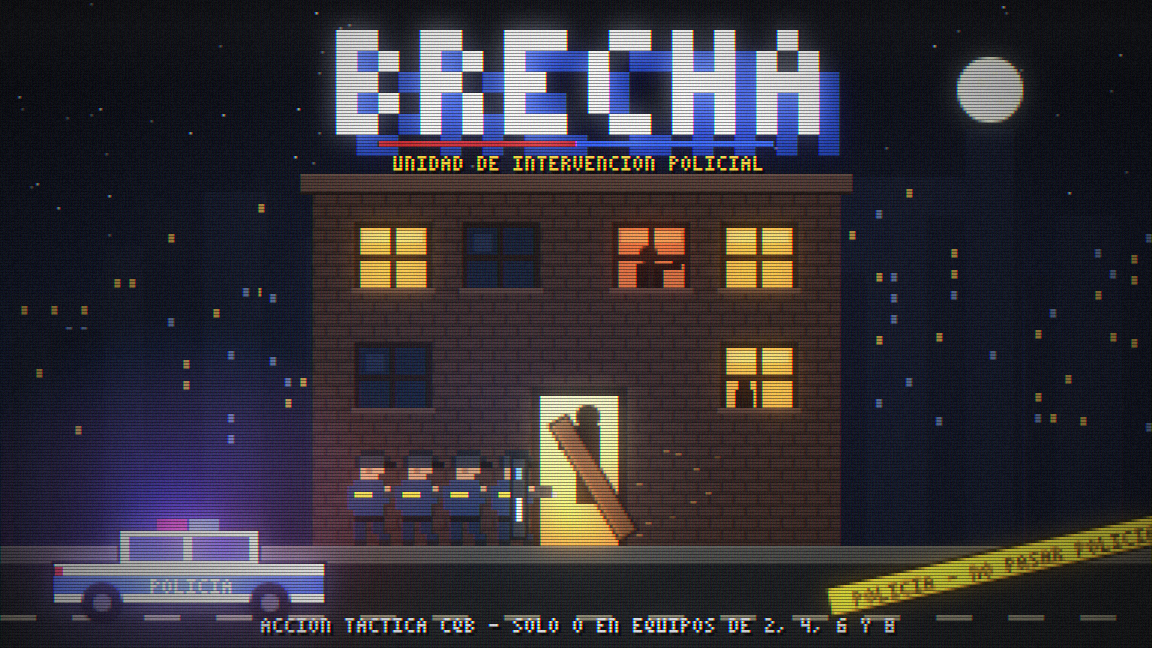
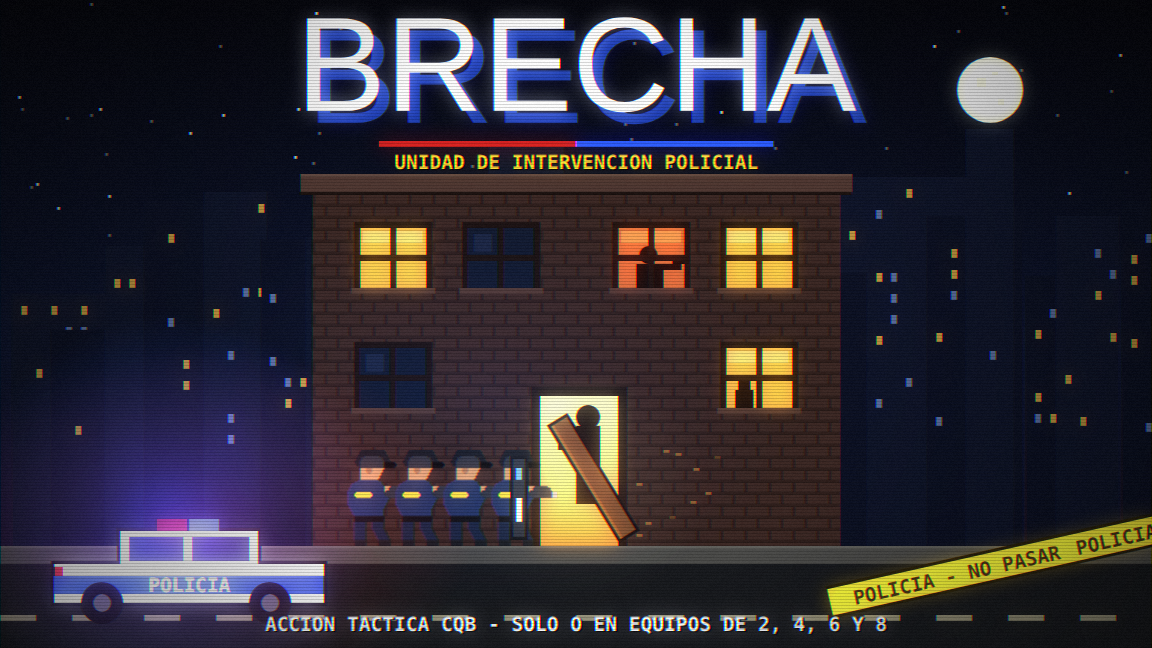
Gráficos a resolución de pantalla y movimiento más suave
- Render interno a la resolución del dispositivo (hasta 3x) y pantalla completa sin bandas
- Sprites y mapa suavizados (Scale2x) con filtrado; muebles dibujados en alta resolución
- Texto con fuentes vectoriales en lugar de la fuente de píxeles
- Posiciones y cámara sin redondeo a píxel; niebla con bordes difuminados
- Filtro CRT más suave y desactivable con K

Claude-Session: https://claude.ai/code/session_01HQPiDtaxp1mzAzFiTZoodU

diff --git a/index.html b/index.html
@@ -13,7 +13,7 @@
 <style>
 html,body{margin:0;height:100%;background:#000;overflow:hidden;touch-action:none;-webkit-user-select:none;user-select:none;-webkit-touch-callout:none}
 body{display:flex;align-items:center;justify-content:center}
-#screen{display:block;cursor:none;touch-action:none;image-rendering:pixelated;image-rendering:crisp-edges;box-shadow:0 0 80px rgba(80,120,255,.08)}
+#screen{display:block;cursor:none;touch-action:none;box-shadow:0 0 80px rgba(80,120,255,.08)}
 </style>
 </head>
 <body>
@@ -37,12 +37,14 @@ const bloomC=mk(W/2,H/2),bctx=bloomC.getContext('2d');
 const chR=mk(W,H),chG=mk(W,H),chB=mk(W,H);
 const noiseC=mk(128,128),nctx=noiseC.getContext('2d');
 function setZoom(i,quiet){ZI=(i+ZOOMS.length)%ZOOMS.length;W=ZOOMS[ZI][0];H=ZOOMS[ZI][1];
- for(const c of[game,fogC,chR,chG,chB]){c.width=W;c.height=H;}bloomC.width=W/2;bloomC.height=H/2;ctx.imageSmoothingEnabled=false;
+ sizeCanvases();
  try{localStorage.setItem('brecha_zoom',ZI);}catch(e){}if(typeof resize==='function')resize();
  if(!quiet&&G.state==='play')radio('VISTA: '+ZOOMS[ZI][2],'#7fe6ff');}
+let RS=2,CRT=true;try{CRT=localStorage.getItem('brecha_crt')!=='0';}catch(e){}
+function sizeCanvases(){for(const c of[game,fogC,chR,chG,chB]){c.width=Math.round(W*RS);c.height=Math.round(H*RS);}bloomC.width=Math.ceil(W*RS/4);bloomC.height=Math.ceil(H*RS/4);}
 let UIX=0,UIY=0;
 function ui(fn){const sw=W,sh=H;UIX=(sw-384)>>1;UIY=(sh-216)>>1;ctx.save();ctx.translate(UIX,UIY);W=384;H=216;try{fn();}finally{W=sw;H=sh;ctx.restore();UIX=0;UIY=0;}}
-function fullRect(){ctx.fillRect(-UIX,-UIY,game.width,game.height);}
+function fullRect(){ctx.fillRect(-UIX-1,-UIY-1,game.width/RS+2,game.height/RS+2);}
 const vmx=()=>mouse.x-((W-384)>>1),vmy=()=>mouse.y-((H-216)>>1);
 let overlay=null,SC=1;
 let FILTER_OK=false;try{bctx.filter='blur(1px)';FILTER_OK=bctx.filter==='blur(1px)';bctx.filter='none';}catch(e){}
@@ -59,18 +61,24 @@ function hash(x,y){let h=(Math.imul(x|0,374761393)+Math.imul(y|0,668265263))|0;h
 const FONT={};
 "A010101111101101|B110101110101110|C011100100100011|D110101101101110|E111100110100111|F111100110100100|G011100101101011|H101101111101101|I111010010010111|J001001001101010|K101101110101101|L100100100100111|M101111111101101|N110101101101101|O010101101101010|P110101110100100|Q010101101110011|R110101110101101|S011100010001110|T111010010010010|U101101101101111|V101101101101010|W101101111111101|X101101010101101|Y101101010010010|Z111001010100111|0111101101101111|1010110010010111|2110001010100111|3110001010001110|4101101111001001|5111100110001110|6011100111101111|7111001010010010|8111101111101111|9111101111001110|.000000000000010|,000000000010100|:000010000010000|!010010010000010|?110001010000010|-000000111000000|/001001010100100|%101001010100101|'010010000000000|(010100100100010|)010001001001010|+000010111010000|>100010001010100|<001010100010001|_000000000000111|[110100100100110|]011001001001011|=000111000111000|Ñ111000110101101|¡010000010010010|¿010000010100011|*000101010101000"
  .split('|').forEach(s=>FONT[s[0]]=s.slice(1));
-function norm(s){return String(s).toUpperCase().replace(/Ñ/g,'\u0001').normalize('NFD').replace(/[̀-ͯ]/g,'').replace(/\u0001/g,'Ñ');}
-function drawStr(s,x,y,col,sc){ctx.fillStyle=col;for(let i=0;i<s.length;i++){let g=FONT[s[i]];if(s[i]==='Ñ'){g=FONT.N;ctx.fillRect(x+i*4*sc,y-2*sc,3*sc,sc);}if(!g)continue;for(let k=0;k<15;k++)if(g.charCodeAt(k)===49)ctx.fillRect(x+i*4*sc+(k%3)*sc,y+((k/3)|0)*sc,sc,sc);}}
-function text(s,x,y,col='#fff',sc=1,al='left',sh='#000'){s=norm(s);const w=s.length*4*sc-sc;if(al==='center')x-=w/2;else if(al==='right')x-=w;x=Math.round(x);y=Math.round(y);if(sh)drawStr(s,x+sc,y+sc,sh,sc);drawStr(s,x,y,col,sc);}
+function norm(s){return String(s).toUpperCase();}
+const FUI="'DejaVu Sans Mono','Menlo','Consolas','Liberation Mono','Courier New',monospace",FBIG="Impact,'Haettenschweiler','Arial Narrow Bold','Arial Black',sans-serif";
+function text(s,x,y,col='#fff',sc=1,al='left',sh='#000'){s=norm(s);const big=sc>=3,fs=big?sc*6.4:sc*6.5;ctx.font=(big?'':'bold ')+fs.toFixed(2)+'px '+(big?FBIG:FUI);ctx.textBaseline='top';ctx.textAlign=al;
+ const yy=y-(big?sc*1.1:sc*0.75);if(sh){ctx.fillStyle=sh;ctx.fillText(s,x+sc*0.55,yy+sc*0.55);}ctx.fillStyle=col;ctx.fillText(s,x,yy);ctx.textAlign='left';}
 const tw=(s,sc=1)=>norm(s).length*4*sc-sc;
 const STAR=["..#..","#####",".###.",".#.#.","#...#"];
 function star(x,y,on){for(let j=0;j<5;j++)for(let i=0;i<5;i++)if(STAR[j][i]==='#'){ctx.fillStyle=on?'#ffd23a':'#2a3450';ctx.fillRect(x+i,y+j,1,1);}}
 
 // ===================== SPRITES =====================
 const PAL0={d:'#0b0d12',s:'#d29a74',k:'#1a1a1e',K:'#5a5a64',W:'#c0c0cc',n:'#5a3a20',N:'#8a5a30',y:'#ffd23a',c:'#d8dce8',w:'#ffffff',r:'#c02020',b:'#3a6ad0',v:'#7fb8d8'};
-function sprite(rows,pal){const h=rows.length,w=Math.max(...rows.map(r=>r.length));const c=mk(w,h),x=c.getContext('2d');
+function scale2x(src){const w=src.width,h=src.height,sd=src.getContext('2d').getImageData(0,0,w,h),d=new ImageData(w*2,h*2),a=new Uint32Array(sd.data.buffer),o=new Uint32Array(d.data.buffer),W2=w*2;
+ for(let y=0;y<h;y++)for(let x=0;x<w;x++){const i0=y*w+x,P=a[i0],A=y>0?a[i0-w]:P,B=x<w-1?a[i0+1]:P,C=x>0?a[i0-1]:P,D=y<h-1?a[i0+w]:P;let e0=P,e1=P,e2=P,e3=P;
+  if(C===A&&C!==D&&A!==B)e0=A;if(A===B&&A!==C&&B!==D)e1=B;if(D===C&&D!==B&&C!==A)e2=C;if(B===D&&B!==A&&D!==C)e3=D;const i=y*2*W2+x*2;o[i]=e0;o[i+1]=e1;o[i+W2]=e2;o[i+W2+1]=e3;}
+ const c=mk(w*2,h*2);c.getContext('2d').putImageData(d,0,0);return c;}
+function sprite(rows,pal){const h=rows.length,w=Math.max(...rows.map(r=>r.length));const c0=mk(w,h),x=c0.getContext('2d');
  rows.forEach((r,j)=>{for(let i=0;i<r.length;i++){if(r[i]==='.')continue;const col=(pal&&pal[r[i]])||PAL0[r[i]];if(col){x.fillStyle=col;x.fillRect(i,j,1,1);}}});
- const o=mk(w,h),ox=o.getContext('2d');ox.drawImage(c,0,0);ox.globalCompositeOperation='source-in';ox.fillStyle='#fff';ox.fillRect(0,0,w,h);c.white=o;return c;}
+ const c=scale2x(scale2x(c0));c.lw=w;c.lh=h;const o=mk(c.width,c.height),ox=o.getContext('2d');ox.drawImage(c,0,0);ox.globalCompositeOperation='source-in';ox.fillStyle='#fff';ox.fillRect(0,0,o.width,o.height);o.lw=w;o.lh=h;c.white=o;return c;}
+function spr(img,x,y){ctx.drawImage(img,x,y,img.lw||img.width,img.lh||img.height);}
 const BASE=[
 "....dddd........",
 "...dgGGgd.......",
@@ -287,8 +295,8 @@ function drawWallTile(x,X,Y,tx,ty){const c=TH.wall,below=tget(tx,ty+1),front=bel
  if(front){F(x,c[2],X,Y+11,16,5);F(x,c[3],X,Y+15,16,1);F(x,c[3],X,Y+11,16,1);}}
 function drawStairs(x,X,Y,up){F(x,'#2a2c30',X,Y,16,16);for(let i=0;i<5;i++){const c=up?40+i*14:110-i*14;F(x,`rgb(${c},${c+2},${c+8})`,X+1,Y+1+i*3,14,3);F(x,'#111',X+1,Y+3+i*3,14,1);}
  F(x,'#ffd23a',X+7,Y+4,2,8);if(up){F(x,'#ffd23a',X+5,Y+6,6,1);F(x,'#ffd23a',X+6,Y+5,4,1);}else{F(x,'#ffd23a',X+5,Y+10,6,1);F(x,'#ffd23a',X+6,Y+11,4,1);}}
-function buildBase(L){world=L;const w=L.w,h=L.h;L.base=mk(w*TS,h*TS);const x=L.base.getContext('2d');
- L.decal=mk(w*TS,h*TS);L.dctx=L.decal.getContext('2d');
+function buildBase(L){world=L;const w=L.w,h=L.h;L.base0=mk(w*TS,h*TS);const x=L.base0.getContext('2d');
+ L.decal=mk(w*TS*2,h*TS*2);L.dctx=L.decal.getContext('2d');L.dctx.setTransform(2,0,0,2,0,0);
  for(let ty=0;ty<h;ty++)for(let tx=0;tx<w;tx++){const t=tget(tx,ty),X=tx*TS,Y=ty*TS;
   if(t!==T.WALL&&t!==T.WIN)x.drawImage(floorAt(tx,ty),X,Y);
   if(t===T.VOID){x.fillStyle='rgba(2,4,10,0.78)';x.fillRect(X,Y,16,16);}}
@@ -300,7 +308,8 @@ function buildBase(L){world=L;const w=L.w,h=L.h;L.base=mk(w*TS,h*TS);const x=L.b
   else if(t===T.WIN)drawWin(x,tx,ty);
   else if(t===T.STAIR)drawStairs(x,X,Y,!L.upper);
   else if(t!==T.FURN&&t!==T.OUT&&t!==T.VOID&&tget(tx,ty-1)===T.WALL){x.fillStyle='rgba(0,0,0,0.28)';x.fillRect(X,Y,16,3);x.fillStyle='rgba(0,0,0,0.14)';x.fillRect(X,Y+3,16,2);}}
- for(const[k,f]of L.furn)if(!f.ref)drawFurn(x,f);}
+ L.base=scale2x(L.base0);const xb=L.base.getContext('2d');xb.setTransform(2,0,0,2,0,0);for(const[k,f]of L.furn)if(!f.ref)drawFurn(xb,f);}
+function rebaseTile(L,tx,ty){const x0=Math.max(0,tx-1),y0=Math.max(0,ty-1),x1=Math.min(L.w-1,tx+1),y1=Math.min(L.h-1,ty+1),sw=(x1-x0+1)*TS,sh=(y1-y0+1)*TS,t=mk(sw,sh);t.getContext('2d').drawImage(L.base0,x0*TS,y0*TS,sw,sh,0,0,sw,sh);const u=scale2x(t),b=L.base.getContext('2d');b.save();b.setTransform(1,0,0,1,0,0);b.drawImage(u,(tx-x0)*TS*2,(ty-y0)*TS*2,TS*2,TS*2,tx*TS*2,ty*TS*2,TS*2,TS*2);b.restore();}
 function drawWin(x,tx,ty){const X=tx*TS,Y=ty*TS,hz=tget(tx-1,ty)===T.WALL||tget(tx+1,ty)===T.WALL,br=world.winBroken.has(ty*world.w+tx),c=TH.wall;
  x.drawImage(floorAt(tx,ty+(hz?1:0)),X,Y);
  if(hz){F(x,c[2],X,Y+5,16,6);F(x,br?'#1a2228':'#7fb8d8',X,Y+6,16,4);if(!br){F(x,'#c8eaff',X+2,Y+7,5,1);}else for(let i=0;i<4;i++)F(x,'#9ad0ea',X+(i*5)%15,Y+6+(i%3),1,1);F(x,c[3],X,Y+5,16,1);}
@@ -937,7 +946,7 @@ function updateBullets(dt){
   for(let i=0;i<st&&!b.dead;i++){b.x+=sx;b.y+=sy;const tx=b.x/TS|0,ty=b.y/TS|0,t=tget(tx,ty);
    if(t===T.WALL||t===T.DOOR){b.dead=true;const hx=b.x-sx,hy=b.y-sy;for(let k=0;k<3;k++){const a=rand(0,6.283),s=rand(30,90);parts.push({x:hx,y:hy,vx:Math.cos(a)*s,vy:Math.sin(a)*s,life:rand(0.08,0.2),max:0.2,c:t===T.DOOR?'#a8744a':'#ffe0a0',sz:1,drag:4,glow:t!==T.DOOR});}
     world.dctx.fillStyle='rgba(0,0,0,0.6)';world.dctx.fillRect(Math.round(hx),Math.round(hy),1,1);break;}
-   if(t===T.WIN){const k=ty*world.w+tx;if(!world.winBroken.has(k)){world.winBroken.add(k);drawWin(world.base.getContext('2d'),tx,ty);SFX.glass();for(let q=0;q<8;q++){const a=rand(0,6.283),s=rand(20,80);parts.push({x:b.x,y:b.y,vx:Math.cos(a)*s,vy:Math.sin(a)*s,life:rand(0.2,0.5),max:0.5,c:'#bfe8ff',sz:1,drag:5,col:true,stamp:'#7fb8d8'});}}}
+   if(t===T.WIN){const k=ty*world.w+tx;if(!world.winBroken.has(k)){world.winBroken.add(k);drawWin(world.base0.getContext('2d'),tx,ty);rebaseTile(world,tx,ty);SFX.glass();for(let q=0;q<8;q++){const a=rand(0,6.283),s=rand(20,80);parts.push({x:b.x,y:b.y,vx:Math.cos(a)*s,vy:Math.sin(a)*s,life:rand(0.2,0.5),max:0.5,c:'#bfe8ff',sz:1,drag:5,col:true,stamp:'#7fb8d8'});}}}
    const lists=b.from==='a'?[sus,civs]:[agents,civs];
    for(const L of lists){for(const e of L){if(e.dead||e.gone||e===b.src||(b.hit&&b.hit.includes(e)))continue;
      if(b.x>e.x-1&&b.x<e.x+e.w+1&&b.y>e.y-1&&b.y<e.y+e.h+1){hitChar(e,b);if(b.pierce>0){b.pierce--;(b.hit=b.hit||[]).push(e);}else b.dead=true;break;}}if(b.dead)break;}}
@@ -1018,29 +1027,31 @@ function computeVision(){VIS.length=0;
  for(const c of G.cams||[])if(c.f===P.f)VIS.push(eyePoly(c.x,c.y,200,210));
  for(const e of sus.concat(civs)){e.vis=false;if(e.gone)continue;const[ex,ey]=ctr(e);for(const v of VIS){if(Math.hypot(ex-v.ox,ey-v.oy)<v.R&&losO(v.ox,v.oy,ex,ey)){e.vis=true;break;}}}
  if(LV.length>1&&G.t>visT){visT=G.t+0.3;const cur=P.f;for(let f=0;f<LV.length;f++){if(f===cur)continue;const L=LV[f],keep=world;world=L;for(const a of ALLA)if(a.f===f&&!a.dead){const[ox,oy]=ctr(a);for(let i=0;i<90;i++){const an=i/90*6.28318;castRay(ox,oy,Math.cos(an),Math.sin(an),220);}}world=keep;}}}
+const SEENC=mk(1,1),SEENX=SEENC.getContext('2d');
 function drawFog(cx,cy){const w=world.w;
- fctx.globalCompositeOperation='source-over';fctx.globalAlpha=1;fctx.fillStyle='#000';fctx.fillRect(0,0,W,H);
- fctx.globalCompositeOperation='destination-out';fctx.globalAlpha=0.45;
- const tx0=Math.max(0,Math.floor(cx/TS)),ty0=Math.max(0,Math.floor(cy/TS)),tx1=Math.min(w-1,Math.floor((cx+W)/TS)),ty1=Math.min(world.h-1,Math.floor((cy+H)/TS));
- for(let ty=ty0;ty<=ty1;ty++){let run=-1;for(let tx=tx0;tx<=tx1+1;tx++){const s=tx<=tx1&&world.seen[ty*w+tx];if(s&&run<0)run=tx;if(!s&&run>=0){fctx.fillRect(run*TS-cx,ty*TS-cy,(tx-run)*TS,TS);run=-1;}}}
+ fctx.setTransform(RS,0,0,RS,0,0);fctx.globalCompositeOperation='source-over';fctx.globalAlpha=1;fctx.fillStyle='#000';fctx.fillRect(0,0,W,H);
+ const tx0=Math.max(0,Math.floor(cx/TS)-1),ty0=Math.max(0,Math.floor(cy/TS)-1),tx1=Math.min(w-1,Math.floor((cx+W)/TS)+1),ty1=Math.min(world.h-1,Math.floor((cy+H)/TS)+1),nw=tx1-tx0+1,nh=ty1-ty0+1;
+ if(SEENC.width!==nw||SEENC.height!==nh){SEENC.width=nw;SEENC.height=nh;}
+ const id=SEENX.createImageData(nw,nh),d=id.data;for(let ty=ty0;ty<=ty1;ty++)for(let tx=tx0;tx<=tx1;tx++)if(world.seen[ty*w+tx])d[((ty-ty0)*nw+tx-tx0)*4+3]=255;SEENX.putImageData(id,0,0);
+ fctx.globalCompositeOperation='destination-out';fctx.globalAlpha=0.45;fctx.imageSmoothingEnabled=true;fctx.drawImage(SEENC,tx0*TS-cx-TS/2,ty0*TS-cy-TS/2,nw*TS+TS,nh*TS+TS);
  fctx.globalAlpha=1;
  for(const v of VIS){if(v.ox+v.R<cx||v.ox-v.R>cx+W||v.oy+v.R<cy||v.oy-v.R>cy+H)continue;const p=v.pts;fctx.beginPath();fctx.moveTo(p[0]-cx,p[1]-cy);for(let i=2;i<p.length;i+=2)fctx.lineTo(p[i]-cx,p[i+1]-cy);fctx.closePath();fctx.fill();}
- fctx.globalCompositeOperation='source-over';ctx.drawImage(fogC,0,0);}
+ fctx.globalCompositeOperation='source-over';ctx.drawImage(fogC,0,0,W,H);}
 
 // ===================== DIBUJO DEL MUNDO =====================
-function darkOf(img){if(!img.dark){const c=mk(img.width,img.height),x=c.getContext('2d');x.drawImage(img,0,0);x.globalCompositeOperation='source-atop';x.fillStyle='rgba(30,8,8,0.55)';x.fillRect(0,0,c.width,c.height);img.dark=c;}return img.dark;}
+function darkOf(img){if(!img.dark){const c=mk(img.width,img.height),x=c.getContext('2d');c.lw=img.lw;c.lh=img.lh;x.drawImage(img,0,0);x.globalCompositeOperation='source-atop';x.fillStyle='rgba(30,8,8,0.55)';x.fillRect(0,0,c.width,c.height);img.dark=c;}return img.dark;}
 function sprFor(e){
  if(e.kind==='agent'){const kd=e===P?curW().kind:WPN[e.w].kind;return charSpr(e===P?'P':e.g==='B'?'AB':'A',e===P?PAL_PLY:e.g==='B'?PAL_POLB:PAL_POL,kd);}
  if(e.kind==='sus'){const pal=e.boss?PAL_BOSS:PAL_SUS[e.pi],pk=e.boss?'B':'S'+e.pi,kd=e.st==='cuffed'?'cuffed':e.st==='surr'?'up':e.armed?STYPE[e.type].kind:e.dead&&e.wasArmed?STYPE[e.type].kind:'unarmed';return charSpr(pk,pal,kd);}
  return charSpr('C'+e.pi,PAL_CIV[e.pi],(e.st==='comply'||e.st==='cower')?'up':'unarmed');}
 function drawChar(e){const[x,y]=ctr(e),s=sprFor(e);
- ctx.fillStyle='rgba(0,0,0,0.35)';ctx.fillRect(Math.round(e.x),Math.round(e.y+8),10,3);
- if(e.kind==='agent'&&e!==P){ctx.fillStyle=e.g==='B'?'rgba(90,220,230,0.45)':'rgba(90,160,255,0.45)';ctx.fillRect(Math.round(x-6),Math.round(y+6),12,1);}
- ctx.save();ctx.translate(Math.round(x),Math.round(y));ctx.rotate(e.ang);const b=Math.sin(e.anim)*0.05;ctx.scale(1+b,1-b);ctx.drawImage(e.flash>0?s.white:s,-6,-6);ctx.restore();
- if(e.stun>0)for(let i=0;i<3;i++){const a=G.t*5+i*2.1;ctx.fillStyle=i%2?'#ffd23a':'#fff';ctx.fillRect(Math.round(x+Math.cos(a)*6),Math.round(y-9+Math.sin(a)*2),1,1);}
- if(e.kind==='sus'&&e.st==='surr'&&e.fakeT<1e8&&e.surrT>e.fakeT-1.5&&(G.t*8|0)%2){ctx.fillStyle='#ff3a3a';ctx.fillRect(Math.round(x),Math.round(y-12),1,3);}
- if(e.boss&&!e.dead&&e.st!=='cuffed'){ctx.fillStyle='#ffd23a';ctx.fillRect(Math.round(x-2),Math.round(y-11),5,1);ctx.fillRect(Math.round(x-2),Math.round(y-12),1,1);ctx.fillRect(Math.round(x),Math.round(y-12),1,1);ctx.fillRect(Math.round(x+2),Math.round(y-12),1,1);}}
-function drawCorpse(e){const[x,y]=ctr(e),s=darkOf(sprFor(e));ctx.save();ctx.translate(Math.round(x),Math.round(y));ctx.rotate(e.ang+1.3);ctx.scale(1.05,0.85);ctx.drawImage(s,-6,-6);ctx.restore();}
+ ctx.fillStyle='rgba(0,0,0,0.35)';ctx.fillRect((e.x),(e.y+8),10,3);
+ if(e.kind==='agent'&&e!==P){ctx.fillStyle=e.g==='B'?'rgba(90,220,230,0.45)':'rgba(90,160,255,0.45)';ctx.fillRect((x-6),(y+6),12,1);}
+ ctx.save();ctx.translate((x),(y));ctx.rotate(e.ang);const b=Math.sin(e.anim)*0.05;ctx.scale(1+b,1-b);spr(e.flash>0?s.white:s,-6,-6);ctx.restore();
+ if(e.stun>0)for(let i=0;i<3;i++){const a=G.t*5+i*2.1;ctx.fillStyle=i%2?'#ffd23a':'#fff';ctx.fillRect((x+Math.cos(a)*6),(y-9+Math.sin(a)*2),1,1);}
+ if(e.kind==='sus'&&e.st==='surr'&&e.fakeT<1e8&&e.surrT>e.fakeT-1.5&&(G.t*8|0)%2){ctx.fillStyle='#ff3a3a';ctx.fillRect((x),(y-12),1,3);}
+ if(e.boss&&!e.dead&&e.st!=='cuffed'){ctx.fillStyle='#ffd23a';ctx.fillRect((x-2),(y-11),5,1);ctx.fillRect((x-2),(y-12),1,1);ctx.fillRect((x),(y-12),1,1);ctx.fillRect((x+2),(y-12),1,1);}}
+function drawCorpse(e){const[x,y]=ctr(e),s=darkOf(sprFor(e));ctx.save();ctx.translate((x),(y));ctx.rotate(e.ang+1.3);ctx.scale(1.05,0.85);spr(s,-6,-6);ctx.restore();}
 const seenAt=(x,y)=>{const tx=x/TS|0,ty=y/TS|0;return tx>=0&&ty>=0&&tx<world.w&&ty<world.h&&world.seen[ty*world.w+tx];};
 function drawDoors(cx,cy){const w=world.w,tx0=Math.max(0,(cx/TS|0)-1),ty0=Math.max(0,(cy/TS|0)-1),tx1=Math.min(w-1,((cx+W)/TS|0)+1),ty1=Math.min(world.h-1,((cy+H)/TS|0)+1);
  for(let ty=ty0;ty<=ty1;ty++)for(let tx=tx0;tx<=tx1;tx++){const k=ty*w+tx,t=world.t[k];if(t!==T.DOOR&&t!==T.OPEN&&t!==T.BROKEN)continue;const D=world.door.get(k);if(!D)continue;const X=tx*TS,Y=ty*TS;
@@ -1054,27 +1065,27 @@ function drawDoors(cx,cy){const w=world.w,tx0=Math.max(0,(cx/TS|0)-1),ty0=Math.m
 function drawWorld(){
  computeVision();
  const sx=(Math.random()-0.5)*G.shake*2,sy=(Math.random()-0.5)*G.shake*2;G.kx=(G.kx||0)*0.8;G.ky=(G.ky||0)*0.8;
- const cx=Math.round(G.camx+sx+G.kx),cy=Math.round(G.camy+sy+G.ky);
+ const cx=G.camx+sx+G.kx,cy=G.camy+sy+G.ky;
  ctx.fillStyle='#000';ctx.fillRect(0,0,W,H);
  ctx.save();ctx.translate(-cx,-cy);
- const bx0=Math.max(0,cx),by0=Math.max(0,cy),bx1=Math.min(world.base.width,cx+W),by1=Math.min(world.base.height,cy+H);
- if(bx1>bx0&&by1>by0){ctx.drawImage(world.base,bx0,by0,bx1-bx0,by1-by0,bx0,by0,bx1-bx0,by1-by0);ctx.drawImage(world.decal,bx0,by0,bx1-bx0,by1-by0,bx0,by0,bx1-bx0,by1-by0);}
+ const bx0=Math.max(0,Math.floor(cx)),by0=Math.max(0,Math.floor(cy)),bx1=Math.min(world.w*TS,Math.ceil(cx+W)),by1=Math.min(world.h*TS,Math.ceil(cy+H));
+ if(bx1>bx0&&by1>by0){ctx.drawImage(world.base,bx0*2,by0*2,(bx1-bx0)*2,(by1-by0)*2,bx0,by0,bx1-bx0,by1-by0);ctx.drawImage(world.decal,bx0*2,by0*2,(bx1-bx0)*2,(by1-by0)*2,bx0,by0,bx1-bx0,by1-by0);}
  drawDoors(cx,cy);
- for(const it of items){if(!seenAt(it.x,it.y))continue;if(it.type==='ev'){const b=Math.round(Math.sin(G.t*4)*1);ctx.drawImage(SPR_EV,Math.round(it.x-4),Math.round(it.y-3+b));}else{ctx.save();ctx.translate(Math.round(it.x),Math.round(it.y));ctx.rotate(it.a||0);ctx.drawImage(SPR_GUN,-3,-1);ctx.restore();}}
- for(const c of world.c4){ctx.drawImage(SPR_C4,Math.round(c.x-3),Math.round(c.y-2));if((G.t*6|0)%2){ctx.fillStyle='#ff2020';ctx.fillRect(Math.round(c.x),Math.round(c.y-1),1,1);}}
+ for(const it of items){if(!seenAt(it.x,it.y))continue;if(it.type==='ev'){const b=(Math.sin(G.t*4)*1);spr(SPR_EV,(it.x-4),(it.y-3+b));}else{ctx.save();ctx.translate((it.x),(it.y));ctx.rotate(it.a||0);spr(SPR_GUN,-3,-1);ctx.restore();}}
+ for(const c of world.c4){spr(SPR_C4,(c.x-3),(c.y-2));if((G.t*6|0)%2){ctx.fillStyle='#ff2020';ctx.fillRect((c.x),(c.y-1),1,1);}}
  for(const L of[civs,sus,agents])for(const e of L)if(e.dead&&seenAt(e.x+5,e.y+5))drawCorpse(e);
- if(G.orderPt&&G.orderPt[2]>0&&G.orderPt[3]===P.f){const[ox,oy]=G.orderPt;ctx.strokeStyle='#5aa0ff';ctx.lineWidth=1;const r=4+(G.t*10%4);ctx.strokeRect(Math.round(ox-r),Math.round(oy-r),r*2|0,r*2|0);}
+ if(G.orderPt&&G.orderPt[2]>0&&G.orderPt[3]===P.f){const[ox,oy]=G.orderPt;ctx.strokeStyle='#5aa0ff';ctx.lineWidth=1;const r=4+(G.t*10%4);ctx.strokeRect((ox-r),(oy-r),r*2|0,r*2|0);}
  // órdenes de puerta
  for(const O of G.orders){if(O.f!==P.f||!(O.mode==='stack'||O.mode==='breach'))continue;const[dx,dy]=doorCenter(O.k),g=O.members[0]?O.members[0].g:'A',col=g==='B'?'#5ae0e6':'#5aa0ff';
   const all=O.members.every(m=>m.g===g);ctx.strokeStyle=col;ctx.strokeRect(dx-9.5,dy-9.5,19,19);
-  for(const sk of O.spots||[]){const x=(sk%world.w+0.5)*TS,y=((sk/world.w|0)+0.5)*TS;ctx.fillStyle=col;ctx.fillRect(Math.round(x-1),Math.round(y-1),2,2);}
+  for(const sk of O.spots||[]){const x=(sk%world.w+0.5)*TS,y=((sk/world.w|0)+0.5)*TS;ctx.fillStyle=col;ctx.fillRect((x-1),(y-1),2,2);}
   text((all?(g==='B'?'B':'A'):'T')+' '+METHODS[O.method],dx,dy-17,col,1,'center');}
  for(const e of civs)if(!e.dead&&!e.gone&&e.vis)drawChar(e);
  for(const e of sus)if(!e.dead&&e.vis)drawChar(e);
  for(const e of agents)if(!e.dead)drawChar(e);
- for(const n of nades){ctx.fillStyle='rgba(0,0,0,0.4)';ctx.fillRect(Math.round(n.x-2),Math.round(n.y),4,2);ctx.save();ctx.translate(Math.round(n.x),Math.round(n.y-(n.z||0)));ctx.rotate(n.rot);ctx.drawImage(SPR_FLASH,-2,-2);ctx.restore();}
- for(const p of parts){if(p.glow)continue;ctx.fillStyle=p.c;ctx.fillRect(Math.round(p.x),Math.round(p.y),p.sz,p.sz);}
- const bar=(e,k,c)=>{const[x,y]=e.kind?ctr(e):[e.x,e.y];ctx.fillStyle='#000';ctx.fillRect(Math.round(x-8),Math.round(y-15),16,3);ctx.fillStyle=c;ctx.fillRect(Math.round(x-7),Math.round(y-14),Math.round(14*clamp(k,0,1)),1);};
+ for(const n of nades){ctx.fillStyle='rgba(0,0,0,0.4)';ctx.fillRect((n.x-2),(n.y),4,2);ctx.save();ctx.translate((n.x),(n.y-(n.z||0)));ctx.rotate(n.rot);spr(SPR_FLASH,-2,-2);ctx.restore();}
+ for(const p of parts){if(p.glow)continue;ctx.fillStyle=p.c;ctx.fillRect((p.x),(p.y),p.sz,p.sz);}
+ const bar=(e,k,c)=>{const[x,y]=e.kind?ctr(e):[e.x,e.y];ctx.fillStyle='#000';ctx.fillRect((x-8),(y-15),16,3);ctx.fillStyle=c;ctx.fillRect((x-7),(y-14),(14*clamp(k,0,1)),1);};
  if(P.act&&P.act.e)bar(P.act.e,P.act.t/P.act.dur,'#7dff3a');
  if(P.act&&P.act.type==='ram'){const[dx,dy]=doorCenter(P.act.k);bar({x:dx,y:dy},P.act.t/P.act.dur,'#ffd23a');}
  for(const a of agents)if(a!==P&&!a.dead&&a.task&&a.task.t>0)bar(a.task.e,a.task.t/(a.task.type==='cuff'?1.3:0.8),'#5aa0ff');
@@ -1082,10 +1093,10 @@ function drawWorld(){
  drawFog(cx,cy);
  // emisivos
  ctx.save();ctx.translate(-cx,-cy);
- ctx.strokeStyle='#fff3a0';ctx.lineWidth=1;ctx.beginPath();for(const b of bullets){const k=b.pel?0.012:0.02;ctx.moveTo(Math.round(b.x-b.vx*k),Math.round(b.y-b.vy*k));ctx.lineTo(Math.round(b.x),Math.round(b.y));}ctx.stroke();
- for(const p of parts){if(!p.glow)continue;ctx.globalAlpha=clamp(p.life/p.max*1.4,0,1);ctx.fillStyle=p.c;ctx.fillRect(Math.round(p.x),Math.round(p.y),p.sz,p.sz);}ctx.globalAlpha=1;
- for(const e of agents.concat(sus)){if(e.dead||e.mflash<=0)continue;const[x,y]=ctr(e),mx=x+Math.cos(e.ang)*12,my=y+Math.sin(e.ang)*12;ctx.fillStyle='#fff6c0';ctx.fillRect(Math.round(mx-1),Math.round(my-1),3,3);ctx.fillStyle='#ffc040';ctx.fillRect(Math.round(mx-3),Math.round(my),7,1);ctx.fillRect(Math.round(mx),Math.round(my-3),1,7);}
- for(const c of world.c4)if((G.t*6|0)%2){ctx.fillStyle='#ff2020';ctx.fillRect(Math.round(c.x),Math.round(c.y-1),1,1);}
+ ctx.strokeStyle='#fff3a0';ctx.lineWidth=0.7;ctx.lineCap='round';ctx.beginPath();for(const b of bullets){const k=b.pel?0.012:0.02;ctx.moveTo((b.x-b.vx*k),(b.y-b.vy*k));ctx.lineTo((b.x),(b.y));}ctx.stroke();
+ for(const p of parts){if(!p.glow)continue;ctx.globalAlpha=clamp(p.life/p.max*1.4,0,1);ctx.fillStyle=p.c;ctx.fillRect((p.x),(p.y),p.sz,p.sz);}ctx.globalAlpha=1;
+ for(const e of agents.concat(sus)){if(e.dead||e.mflash<=0)continue;const[x,y]=ctr(e),mx=x+Math.cos(e.ang)*12,my=y+Math.sin(e.ang)*12;ctx.fillStyle='#fff6c0';ctx.fillRect((mx-1),(my-1),3,3);ctx.fillStyle='#ffc040';ctx.fillRect((mx-3),(my),7,1);ctx.fillRect((mx),(my-3),1,7);}
+ for(const c of world.c4)if((G.t*6|0)%2){ctx.fillStyle='#ff2020';ctx.fillRect((c.x),(c.y-1),1,1);}
  ctx.globalCompositeOperation='lighter';
  const glow=(x,y,r,c,i)=>{ctx.globalAlpha=Math.min(1,i);ctx.drawImage(GL[c],x-r,y-r,r*2,r*2);};
  for(const e of agents.concat(sus)){if(e.dead||e.mflash<=0)continue;const[x,y]=ctr(e);glow(x+Math.cos(e.ang)*12,y+Math.sin(e.ang)*12,36,'y',e.kind==='sus'&&!e.vis?0.3:0.45);}
@@ -1094,7 +1105,7 @@ function drawWorld(){
  ctx.globalAlpha=1;ctx.globalCompositeOperation='source-over';
  ctx.restore();
  for(const p of popups){ctx.globalAlpha=clamp(p.life*2,0,1);text(p.txt,p.x-cx,p.y-cy,p.c,1,'center');}ctx.globalAlpha=1;
- if(G.cams&&G.cams.some(c=>c.f===P.f)){const c=G.cams.find(c=>c.f===P.f);const x=c.x-cx,y=c.y-cy;ctx.strokeStyle=(G.t*4|0)%2?'#7fe6ff':'#2a6a8a';ctx.strokeRect(Math.round(x-12)+0.5,Math.round(y-8)+0.5,24,16);text('CAM',x,y-14,'#7fe6ff',1,'center');}
+ if(G.cams&&G.cams.some(c=>c.f===P.f)){const c=G.cams.find(c=>c.f===P.f);const x=c.x-cx,y=c.y-cy;ctx.strokeStyle=(G.t*4|0)%2?'#7fe6ff':'#2a6a8a';ctx.strokeRect((x-12)+0.5,(y-8)+0.5,24,16);text('CAM',x,y-14,'#7fe6ff',1,'center');}
  if(G.blind>0){ctx.fillStyle=`rgba(255,255,250,${Math.min(1,G.blind)})`;ctx.fillRect(0,0,W,H);}
  if(G.hurtFlash>0){ctx.fillStyle=`rgba(255,0,0,${G.hurtFlash*0.6})`;ctx.fillRect(0,0,W,H);}
  if(!P.dead&&P.hp<35){const a=0.12+Math.sin(G.t*6)*0.08;ctx.fillStyle=`rgba(200,0,0,${a})`;ctx.fillRect(0,0,W,4);ctx.fillRect(0,H-4,W,4);ctx.fillRect(0,0,4,H);ctx.fillRect(W-4,0,4,H);}}
@@ -1106,7 +1117,7 @@ function miniDraw(m,L,s,full){m.fillStyle='rgba(0,0,0,0.7)';m.fillRect(0,0,L.w*s
   m.fillStyle=t===T.WALL?'#8a90a0':t===T.DOOR?(L.door.get(k)&&L.door.get(k).armor?'#c8c8d0':'#a8744a'):t===T.OPEN||t===T.BROKEN?'#5a4030':t===T.WIN?'#7fb8d8':t===T.FURN?'#3a3c44':t===T.STAIR?'#ffd23a':t===T.OUT?'#1a2a1a':t===T.VOID?'#05070c':'#262a34';m.fillRect(tx*s,ty*s,s,s);}}
 function drawMinimap(){if(G.noMap)return 4;const s=Math.max(1,Math.min(2,Math.floor(110/world.w))),mw=world.w*s,mh=world.h*s,x0=W-mw-4,y0=4;
  if(G.t>miniT||MINI.width!==mw||miniF!==world.f){miniT=G.t+0.25;miniF=world.f;MINI.width=mw;MINI.height=mh;miniDraw(MINI.getContext('2d'),world,s,false);}
- ctx.drawImage(MINI,x0,y0);ctx.strokeStyle='#3a4a6a';ctx.lineWidth=1;ctx.strokeRect(x0-0.5,y0-0.5,mw+1,mh+1);
+ ctx.imageSmoothingEnabled=false;ctx.drawImage(MINI,x0,y0);ctx.imageSmoothingEnabled=true;ctx.strokeStyle='#3a4a6a';ctx.lineWidth=1;ctx.strokeRect(x0-0.5,y0-0.5,mw+1,mh+1);
  const dot=(e,c,sz=2)=>{ctx.fillStyle=c;ctx.fillRect(x0+Math.round((e.x+5)/TS*s)-1,y0+Math.round((e.y+5)/TS*s)-1,sz,sz);};
  for(const it of items)if(it.type==='ev'&&seenAt(it.x,it.y))dot({x:it.x-5,y:it.y-5},'#ffd23a');
  for(const c of civs)if(!c.dead&&!c.gone&&c.vis)dot(c,'#e8e8e8');
@@ -1117,7 +1128,7 @@ function drawMinimap(){if(G.noMap)return 4;const s=Math.max(1,Math.min(2,Math.fl
 function drawHUD(){
  text('VIDA',5,5,'#9fc8ff');ctx.fillStyle='#0a1020';ctx.fillRect(22,5,66,7);
  for(let i=0;i<16;i++){const on=P.hp/P.max>i/16;ctx.fillStyle=on?(P.hp<35?((G.t*6|0)%2?'#ff3a3a':'#a01010'):'#4a8ae8'):'#16203a';ctx.fillRect(23+i*4,6,3,5);}
- text('ATU',5,15,'#c8d0c0');for(let i=0;i<P.flashN;i++)ctx.drawImage(SPR_FLASH,22+i*6,15);
+ text('ATU',5,15,'#c8d0c0');for(let i=0;i<P.flashN;i++)spr(SPR_FLASH,22+i*6,15);
  // arma
  const y0=H-22,wv=curW();ctx.fillStyle='rgba(0,8,20,0.65)';ctx.fillRect(3,y0-3,128,22);ctx.fillStyle='#1d2a4a';ctx.fillRect(3,y0-3,128,1);
  text((P.wi+1)+' '+wv.n,5,y0,wv.c);
@@ -1299,7 +1310,7 @@ function drawBrief(){gridBG();const M=G.M;
  if((G.t*2|0)%2)text(TOUCH?'TOCA DESPLEGAR':'W/S ELEGIR  A/D CAMBIAR  ENTER: DESPLEGAR  ESC: VOLVER',192,200,'#fff',1,'center');}
 const EVC={arr:'#7dff3a',kill:'#ff3a3a',unj:'#ff9a2a',civ:'#7fe6ff',civk:'#ffffff',down:'#5aa0ff',ev:'#ffd23a'};
 function drawReplay(x0,y0,bw,bh){const L=LV[G.rmapF||0];if(!L)return;const s=Math.min(bw/(L.w*TS),bh/(L.h*TS)),w=L.w*TS*s,h=L.h*TS*s,ox=x0+(bw-w)/2,oy=y0+(bh-h)/2;
- ctx.imageSmoothingEnabled=true;ctx.drawImage(L.base,ox,oy,w,h);ctx.drawImage(L.decal,ox,oy,w,h);ctx.imageSmoothingEnabled=false;ctx.fillStyle='rgba(0,0,0,0.35)';ctx.fillRect(ox,oy,w,h);
+ ctx.imageSmoothingEnabled=true;ctx.drawImage(L.base,ox,oy,w,h);ctx.drawImage(L.decal,ox,oy,w,h);ctx.fillStyle='rgba(0,0,0,0.35)';ctx.fillRect(ox,oy,w,h);
  ctx.strokeStyle='#2a3a6a';ctx.strokeRect(Math.round(ox)-0.5,Math.round(oy)-0.5,Math.round(w)+1,Math.round(h)+1);
  const shown=Math.floor(G.debT*12);G.events.filter(e=>e.f===(G.rmapF||0)).slice(0,shown).forEach(e=>{const x=Math.round(ox+e.x*s),y=Math.round(oy+e.y*s),c=EVC[e.t];ctx.fillStyle=c;
   if(e.t==='arr'||e.t==='ev'||e.t==='civ'){ctx.fillRect(x-1,y-1,3,3);}else{ctx.fillRect(x-2,y-2,1,1);ctx.fillRect(x-1,y-1,1,1);ctx.fillRect(x,y,1,1);ctx.fillRect(x+1,y+1,1,1);ctx.fillRect(x+2,y+2,1,1);ctx.fillRect(x+2,y-2,1,1);ctx.fillRect(x+1,y-1,1,1);ctx.fillRect(x-1,y+1,1,1);ctx.fillRect(x-2,y+2,1,1);}
@@ -1325,11 +1336,11 @@ function drawFail(){const a=Math.min(1,G.debT*2);ctx.fillStyle=`rgba(20,0,0,${0.
  if(G.debT>1&&(G.t*2|0)%2)text(TOUCH?'TOCA PARA CONTINUAR':G.runEnd?'ENTER: NUEVA OPERACION   ESC: MENU':'ENTER / R: REINTENTAR   ESC: MENU',192,160,'#fff',1,'center');}
 function drawPause(){ctx.fillStyle='rgba(0,0,0,0.7)';fullRect();text('PAUSA',192,20,'#7fe6ff',4,'center');
  text(TOUCH?'TOCA PARA CONTINUAR':'P / ESC: CONTINUAR   ENTER: ABANDONAR',192,50,'#fff',1,'center');
- text('M SONIDO: '+(AU.on?'SI':'NO')+'   Z ZOOM: '+ZOOMS[ZI][2]+'   N MAPA',192,60,'#c8d0c0',1,'center');
+ text('M SONIDO: '+(AU.on?'SI':'NO')+'   Z ZOOM: '+ZOOMS[ZI][2]+'   N MAPA   K FILTRO CRT: '+(CRT?'SI':'NO'),192,60,'#c8d0c0',1,'center');
  HELP.forEach((l,i)=>{text(l[0],140,74+i*8,'#7fe6ff',1,'right');text(l[1],148,74+i*8,'#a8b8d8');});}
 function rotateHint(){if(TOUCH&&innerHeight>innerWidth*1.05){ctx.fillStyle='rgba(0,0,0,0.85)';ctx.fillRect(0,0,W,H);text('GIRA EL MOVIL',W/2,H/2-10,'#ffd23a',3,'center');text('SE JUEGA EN HORIZONTAL',W/2,H/2+14,'#c8d0c0',1,'center');}}
 function render(){
- ctx.setTransform(1,0,0,1,0,0);ctx.globalCompositeOperation='source-over';ctx.globalAlpha=1;ctx.imageSmoothingEnabled=false;
+ ctx.setTransform(RS,0,0,RS,0,0);ctx.globalCompositeOperation='source-over';ctx.globalAlpha=1;ctx.imageSmoothingEnabled=true;ctx.imageSmoothingQuality='high';
  if(G.state==='title'){drawCover();if(!COVER)ui(drawTitleUI);if(G.help)ui(drawHelp);rotateHint();return;}
  if(G.state==='menu'){ui(drawMenu);rotateHint();return;}
  if(G.state==='brief'){ui(drawBrief);rotateHint();return;}
@@ -1339,34 +1350,28 @@ function render(){
 // ===================== CRT (plano) =====================
 function buildOverlay(cw,ch,s){
  overlay=mk(cw,ch);const o=overlay.getContext('2d');
- if(s>=2){const sl=mk(1,s),x=sl.getContext('2d');x.fillStyle='rgba(0,0,0,0.42)';x.fillRect(0,s-1,1,1);if(s>=4){x.fillStyle='rgba(0,0,0,0.16)';x.fillRect(0,s-2,1,1);x.fillRect(0,0,1,1);}o.fillStyle=o.createPattern(sl,'repeat');o.fillRect(0,0,cw,ch);}
- if(s>=3){const ap=mk(3,1),x=ap.getContext('2d');x.fillStyle='rgba(255,40,40,0.05)';x.fillRect(0,0,1,1);x.fillStyle='rgba(40,255,40,0.05)';x.fillRect(1,0,1,1);x.fillStyle='rgba(40,40,255,0.05)';x.fillRect(2,0,1,1);o.fillStyle=o.createPattern(ap,'repeat');o.fillRect(0,0,cw,ch);}
- const vg=o.createRadialGradient(cw/2,ch/2,ch*0.4,cw/2,ch/2,Math.hypot(cw,ch)/2);vg.addColorStop(0,'rgba(0,0,0,0)');vg.addColorStop(1,'rgba(0,0,0,0.5)');o.fillStyle=vg;o.fillRect(0,0,cw,ch);
-}
+ if(s>=2){const p=Math.max(2,Math.round(s)),sl=mk(1,p),x=sl.getContext('2d');x.fillStyle='rgba(0,0,0,0.16)';x.fillRect(0,p-1,1,1);o.fillStyle=o.createPattern(sl,'repeat');o.fillRect(0,0,cw,ch);}
+ const vg=o.createRadialGradient(cw/2,ch/2,ch*0.45,cw/2,ch/2,Math.hypot(cw,ch)/2);vg.addColorStop(0,'rgba(0,0,0,0)');vg.addColorStop(1,'rgba(0,0,0,0.42)');o.fillStyle=vg;o.fillRect(0,0,cw,ch);}
 function regenNoise(){const id=nctx.createImageData(128,128),d=id.data;for(let i=0;i<d.length;i+=4){const v=Math.random()*255|0;d[i]=d[i+1]=d[i+2]=v;d[i+3]=255;}nctx.putImageData(id,0,0);}
 function post(){
- const cw=scr.width,ch=scr.height;
- [[chR,'#f00'],[chG,'#0f0'],[chB,'#00f']].forEach(([cv,col])=>{const c=cv.getContext('2d');c.globalCompositeOperation='copy';c.drawImage(game,0,0);c.globalCompositeOperation='multiply';c.fillStyle=col;c.fillRect(0,0,W,H);});
- dctx.globalCompositeOperation='source-over';dctx.globalAlpha=1;dctx.fillStyle='#000';dctx.fillRect(0,0,cw,ch);
- dctx.imageSmoothingEnabled=false;dctx.globalCompositeOperation='lighter';
- const o=Math.max(1,Math.round(SC*0.35));
+ const cw=scr.width,ch=scr.height,gw=game.width,gh=game.height;
+ dctx.setTransform(1,0,0,1,0,0);dctx.globalCompositeOperation='source-over';dctx.globalAlpha=1;dctx.imageSmoothingEnabled=true;dctx.imageSmoothingQuality='high';
+ if(!CRT){dctx.drawImage(game,0,0,cw,ch);return;}
+ [[chR,'#f00'],[chG,'#0f0'],[chB,'#00f']].forEach(([cv,col])=>{const c=cv.getContext('2d');c.globalCompositeOperation='copy';c.drawImage(game,0,0);c.globalCompositeOperation='multiply';c.fillStyle=col;c.fillRect(0,0,gw,gh);});
+ dctx.fillStyle='#000';dctx.fillRect(0,0,cw,ch);dctx.globalCompositeOperation='lighter';
+ const o=Math.max(1,Math.round(cw/W*0.22));
  dctx.drawImage(chR,o,0,cw,ch);dctx.drawImage(chG,0,0,cw,ch);dctx.drawImage(chB,-o,0,cw,ch);
- bctx.globalCompositeOperation='copy';if(FILTER_OK)bctx.filter='brightness(0.75) contrast(2.2) blur(2px)';bctx.drawImage(game,0,0,W/2,H/2);if(FILTER_OK)bctx.filter='none';
- dctx.imageSmoothingEnabled=true;dctx.globalAlpha=FILTER_OK?0.5:0.12;dctx.drawImage(bloomC,0,0,cw,ch);
+ bctx.globalCompositeOperation='copy';if(FILTER_OK)bctx.filter='brightness(0.75) contrast(2.2) blur(2px)';bctx.drawImage(game,0,0,bloomC.width,bloomC.height);if(FILTER_OK)bctx.filter='none';
+ dctx.globalAlpha=FILTER_OK?0.4:0.1;dctx.drawImage(bloomC,0,0,cw,ch);
  dctx.globalAlpha=1;dctx.globalCompositeOperation='source-over';
  dctx.drawImage(overlay,0,0);
  if((G.frame&1)===0)regenNoise();
- dctx.globalAlpha=0.04;dctx.fillStyle=dctx.createPattern(noiseC,'repeat');dctx.fillRect(0,0,cw,ch);
- const by=((G.t*0.18)%1.4-0.2)*ch,gr=dctx.createLinearGradient(0,by,0,by+ch*0.18);gr.addColorStop(0,'rgba(255,255,255,0)');gr.addColorStop(0.5,'rgba(255,255,255,0.5)');gr.addColorStop(1,'rgba(255,255,255,0)');
- dctx.globalAlpha=0.04;dctx.fillStyle=gr;dctx.fillRect(0,by,cw,ch*0.18);
- dctx.globalAlpha=Math.random()*0.02;dctx.fillStyle='#fff';dctx.fillRect(0,0,cw,ch);dctx.globalAlpha=1;
-}
+ dctx.globalAlpha=0.025;dctx.fillStyle=dctx.createPattern(noiseC,'repeat');dctx.fillRect(0,0,cw,ch);dctx.globalAlpha=1;}
 function resize(){
- const dpr=window.devicePixelRatio||1,aw=innerWidth*dpr,ah=innerHeight*dpr;
- let s=Math.floor(Math.min(aw/W,ah/H));if(s<1)s=1;SC=s;
- scr.width=W*s;scr.height=H*s;let cw=W*s/dpr;const fit=Math.min(innerWidth/W,innerHeight/H)*W;if(cw<fit*0.86)cw=fit;scr.style.width=cw+'px';scr.style.height=(cw*H/W)+'px';
- buildOverlay(scr.width,scr.height,s);
-}
+ const dpr=window.devicePixelRatio||1,fit=Math.min(innerWidth/W,innerHeight/H);
+ scr.style.width=Math.floor(W*fit)+'px';scr.style.height=Math.floor(H*fit)+'px';
+ scr.width=Math.max(W,Math.round(W*fit*dpr));scr.height=Math.max(H,Math.round(H*fit*dpr));SC=scr.width/W;
+ RS=clamp(SC,1,3);sizeCanvases();buildOverlay(scr.width,scr.height,SC);}
 addEventListener('resize',resize);resize();
 
 // ===================== ENTRADA =====================
@@ -1449,6 +1454,7 @@ function update(dt){
  if(pressed['m'])toggleMute();
  if(pressed['z']&&(G.state==='play'||G.state==='pause'))setZoom(ZI+1);
  if(pressed['n'])G.noMap=!G.noMap;
+ if(pressed['k']){CRT=!CRT;try{localStorage.setItem('brecha_crt',CRT?'1':'0');}catch(e){}}
  if(AU.mus)AU.mus.gain.value=G.state==='pause'?0.07:0.18;
  const ok=pressed['enter']||pressed['lmb']||pressed['e'];
  switch(G.state){

diff --git a/README.md b/README.md
@@ -6,7 +6,7 @@
 
 Acción táctica **CQB con vista cenital** en un único `index.html`, sin dependencias, con la misma estética retro que [XENO MARINE](https://github.com/malbot042/alien). Formas parte de una unidad de intervención: entras en el edificio, despejas sala a sala y **detienes a los sospechosos**. Disparar es el último recurso: se puntúa más detener que abatir, y se penaliza a quien dispara a alguien que se rinde o a un civil.
 
-Se juega con teclado y ratón, con mando o en el móvil con controles táctiles. La pantalla imita un CRT plano: líneas de barrido, rejilla RGB, separación de colores, brillo difuso y ruido.
+Se juega con teclado y ratón, con mando o en el móvil con controles táctiles. Se dibuja a la resolución de tu pantalla: sprites suavizados, texto nítido, niebla con bordes difuminados y movimiento y cámara sin saltos de píxel. Por encima va un filtro CRT suave (líneas de barrido, separación de colores y brillo) que se quita con **K**.
 
 ## Campaña: Operación Marea Negra
 Ocho misiones encadenadas. Cada una empieza con un **informe de la central** y, al terminarla, la central cuenta qué habéis descubierto y adónde lleva la pista. Para abrir la siguiente misión hay que completar la anterior.
@@ -131,6 +131,7 @@ Caminar con **Shift** (sigilo) es más lento pero más preciso; disparar corrien
 | C / V / X / B | Seguir-esperar / ir / apilarse / ¡adelante! |
 | P / Esc | Pausa (Enter en pausa: abandonar) |
 | M / N / Z | Sonido / minimapa / zoom |
+| K | Filtro CRT sí / no |
 | H | Controles (en la portada) |
 
 **Mando:** sticks para moverse y apuntar, RT disparar, A usar, B gritar, X recargar, Y cambiar arma, LT aturdidora, RB patada, LB elegir grupo, Select / R3 equipo táctico. En la cruceta: arriba apilarse, abajo ¡adelante!, izquierda ir y derecha seguir/esperar.
